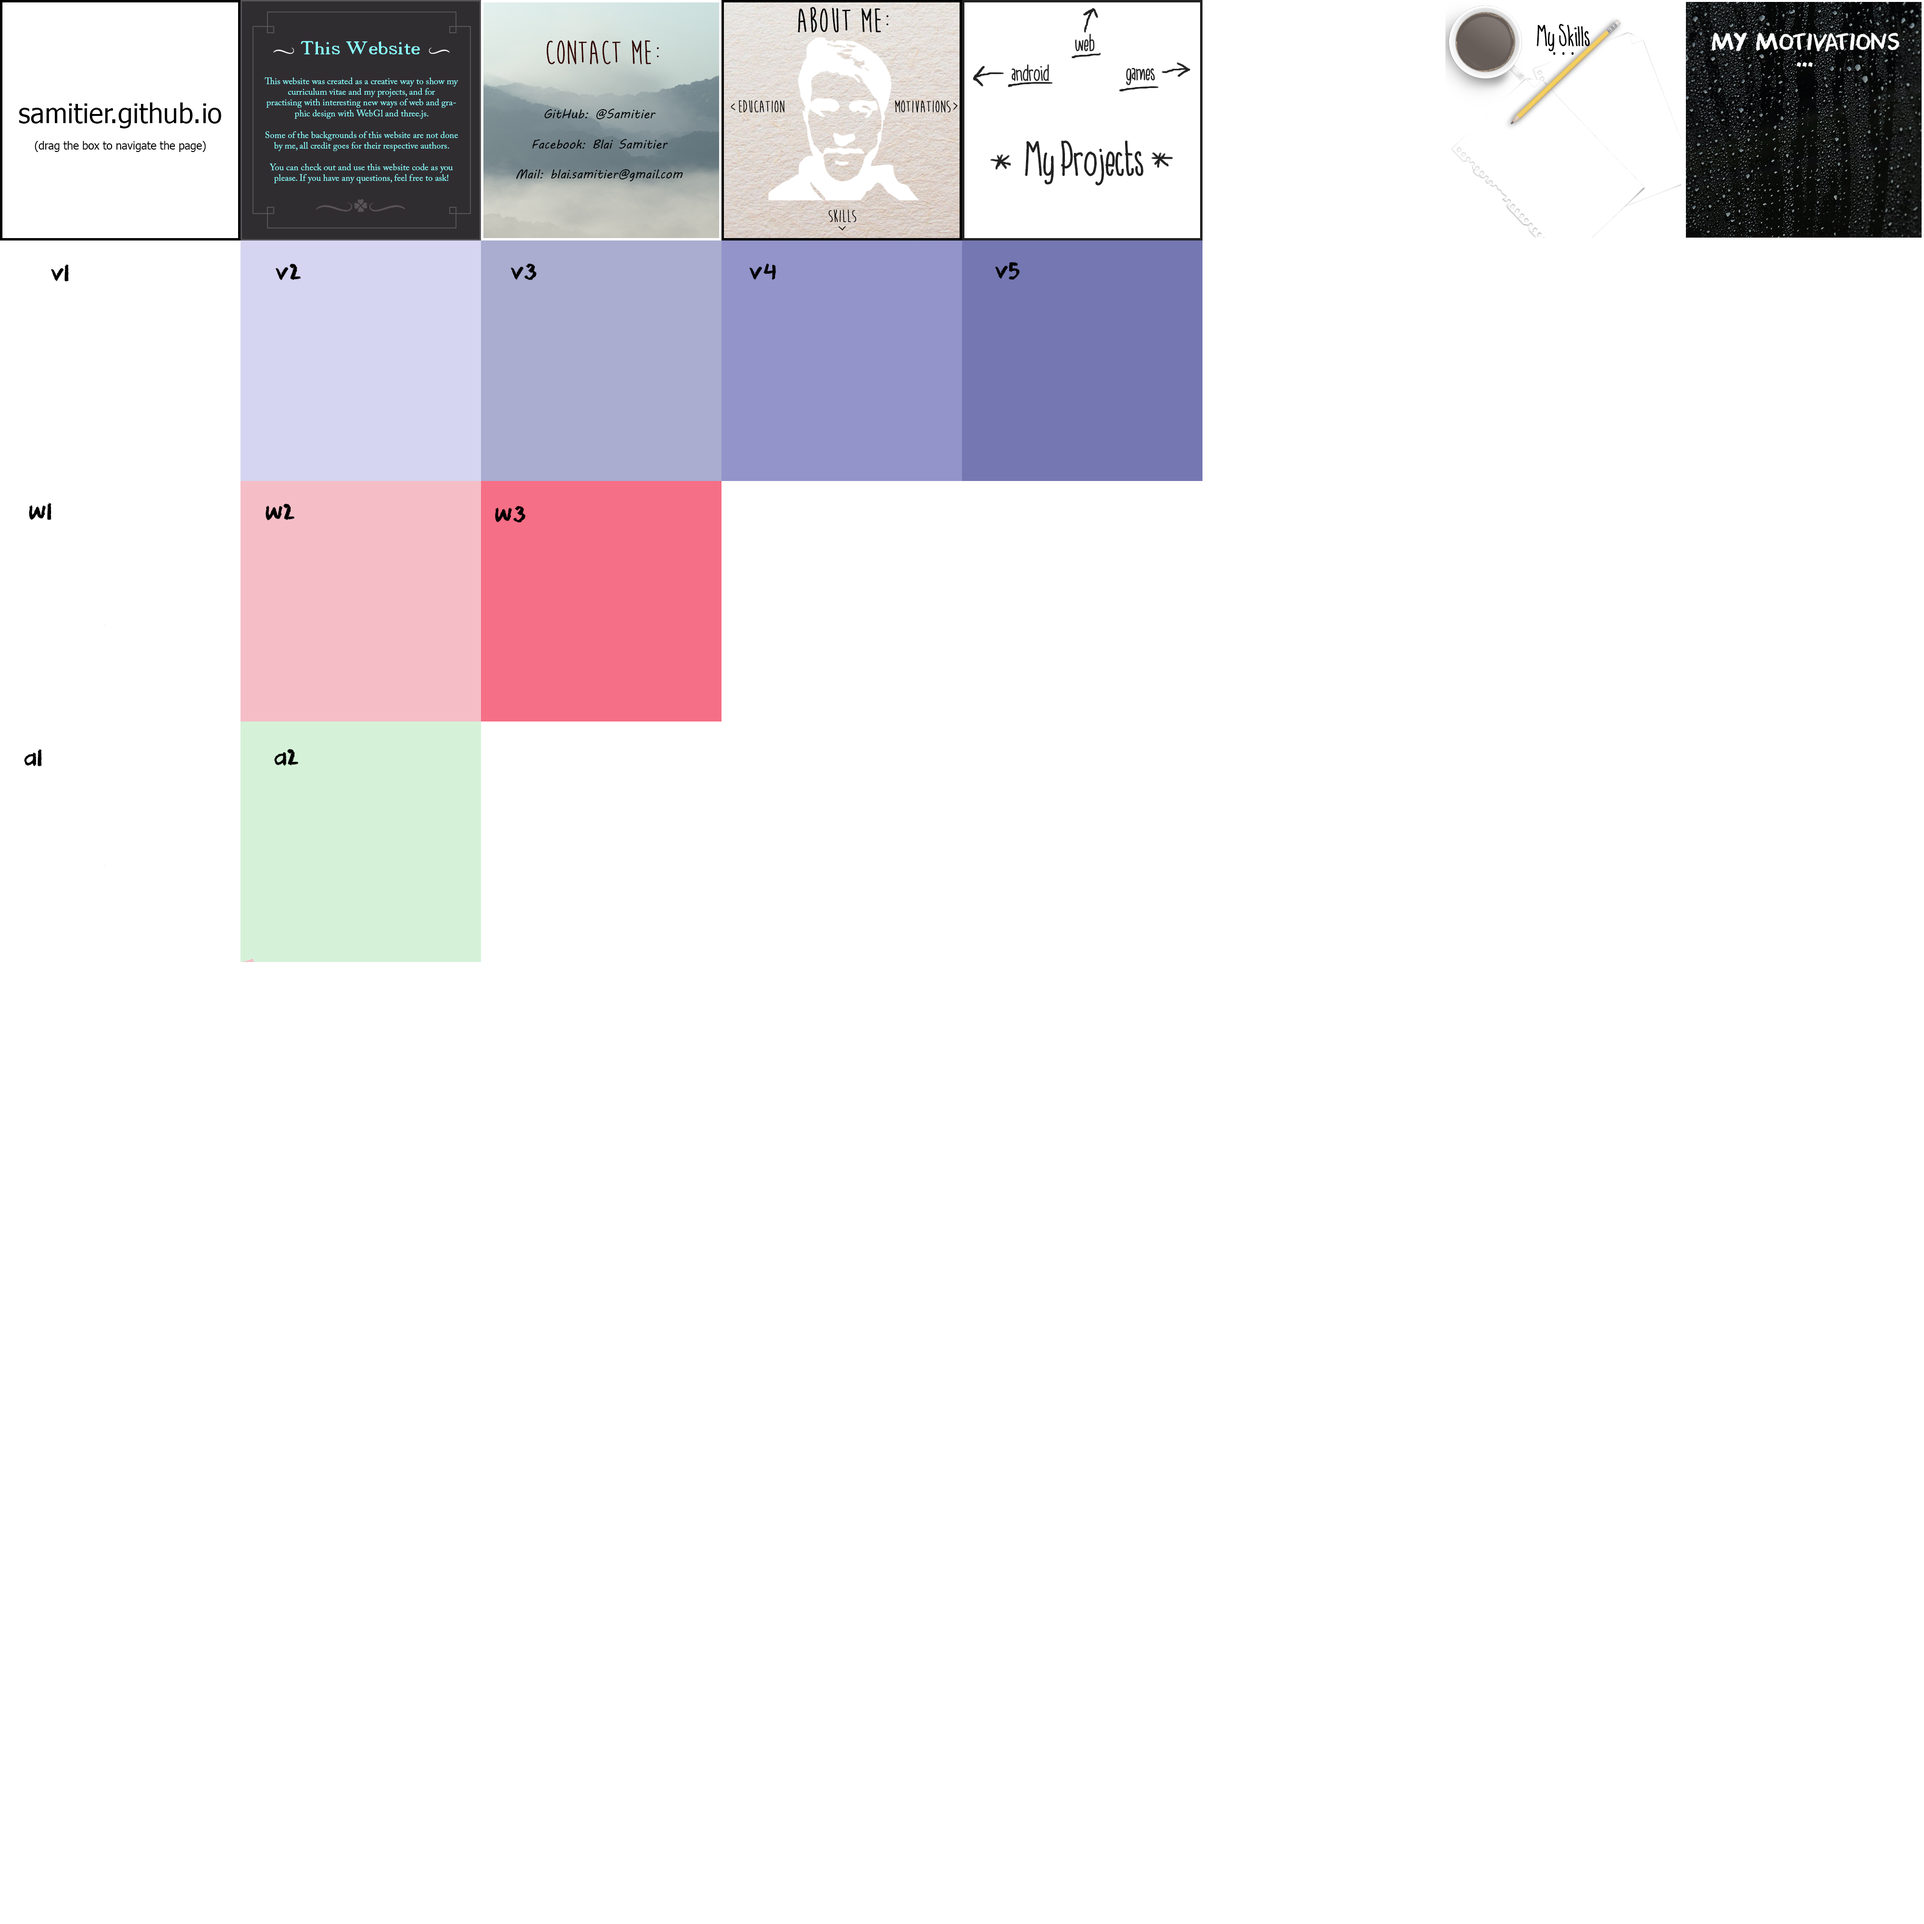
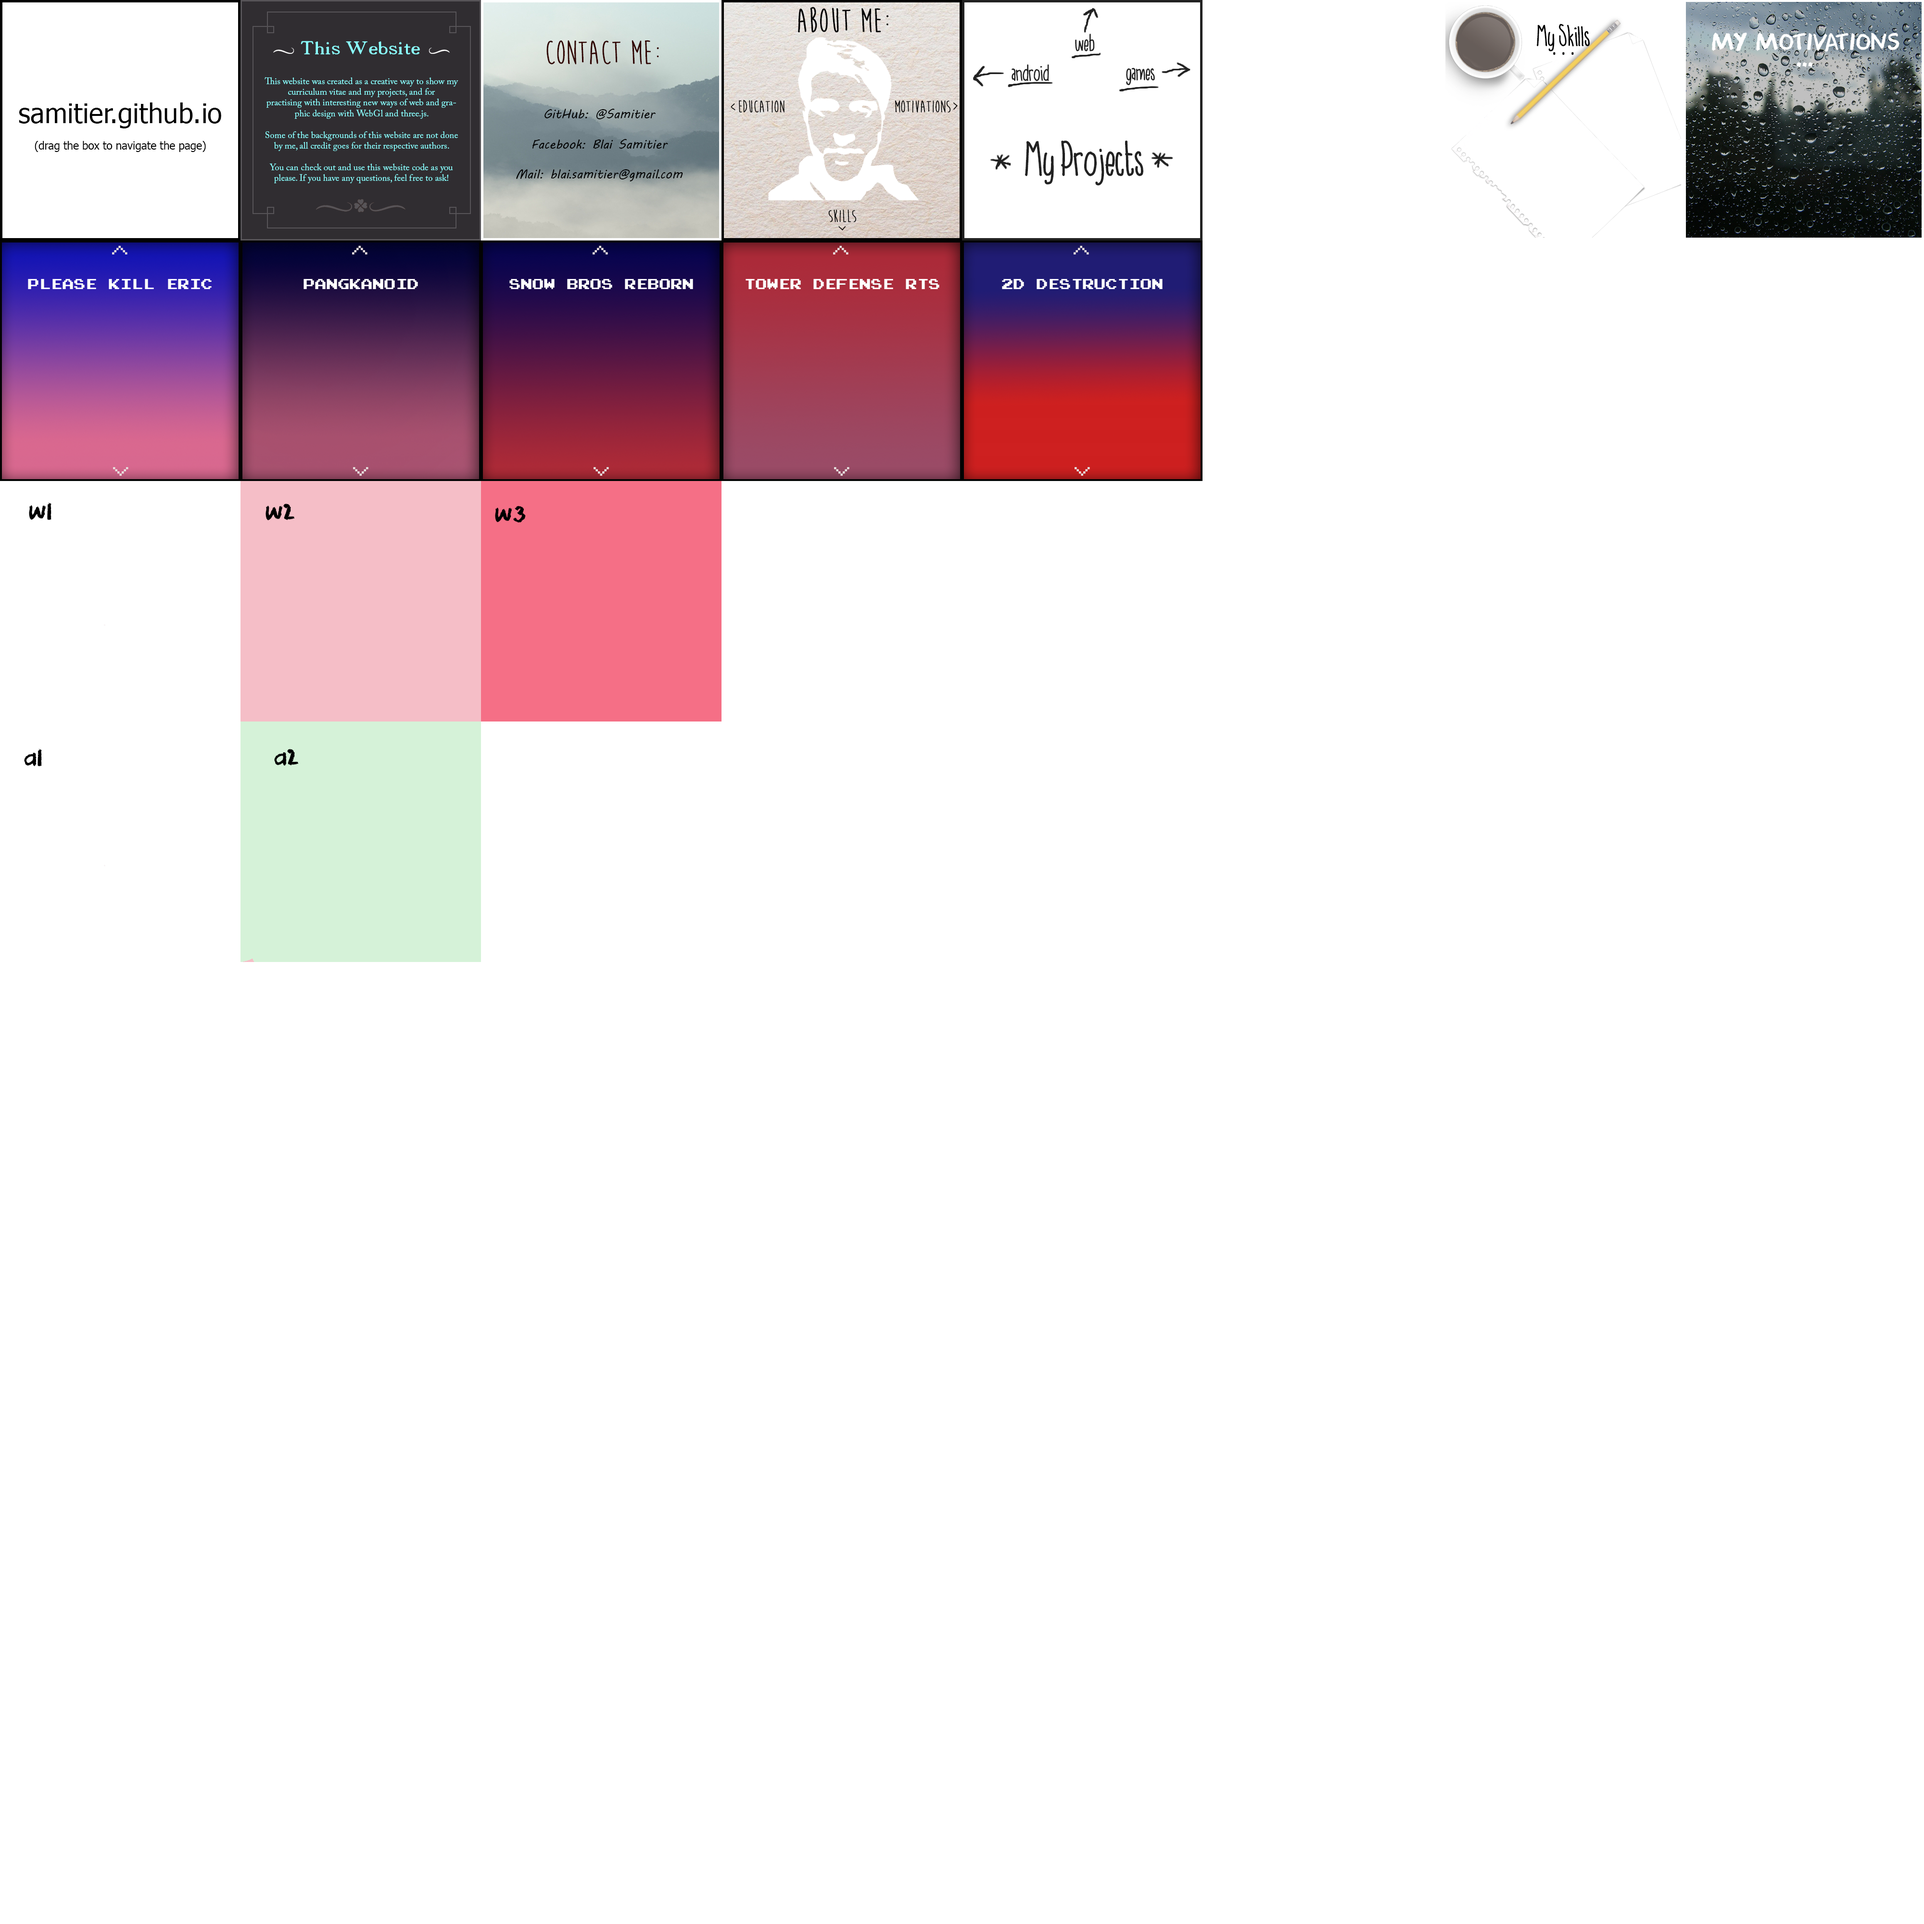
first vj pages

Changed region(s): [[0.0, 0.125, 0.625, 0.25], [0.875, 0.0, 1.0, 0.125]]

diff --git a/js/pages.js b/js/pages.js
@@ -33,6 +33,8 @@ var bkgProjects = THREE.ImageUtils.loadTexture( 'img/bkg/bkgProjects.png');
 var bkgMotivations = THREE.ImageUtils.loadTexture( 'img/bkg/bkgMotivations.png');
 var bkgSkills = THREE.ImageUtils.loadTexture( 'img/bkg/bkgSkills.png');
 var bkgEducation = THREE.ImageUtils.loadTexture( 'img/bkg/bkgEducation.png');
+var bkgVj = THREE.ImageUtils.loadTexture( 'img/bkg/bkgVj.png');
+
 
 var isLoading = true;
 THREE.DefaultLoadingManager.onProgress = function ( item, loaded, total ) {
@@ -49,11 +51,11 @@ var navs = {   main:      {top : "projects",bottom : "me",   left : "website", r
                skills:    {top : "me",    bottom : "main", left : "main",    right:"main",      front: "skills",   background:bkgSkills},
                motivations:{top : "main",   bottom : "main", left : "me",    right:"main",      front: "motivations",  background:bkgMotivations},
 
-               vj1: {top : "vj2",   bottom : "vj5", left : "projects",    right:"main",      front: "vj1",  background:bkgMain},
-               vj2: {top : "vj3",   bottom : "vj1", left : "projects",    right:"main",      front: "vj2",  background:bkgMain},
-               vj3: {top : "vj4",   bottom : "vj2", left : "projects",    right:"main",      front: "vj3",  background:bkgMain},
-               vj4: {top : "vj5",   bottom : "vj3", left : "projects",    right:"main",      front: "vj4",  background:bkgMain},
-               vj5: {top : "vj1",   bottom : "vj4", left : "projects",    right:"main",      front: "vj5",  background:bkgMain},
+               vj1: {top : "vj2",   bottom : "vj5", left : "projects",    right:"main",      front: "vj1",  background:bkgVj},
+               vj2: {top : "vj3",   bottom : "vj1", left : "projects",    right:"main",      front: "vj2",  background:bkgVj},
+               vj3: {top : "vj4",   bottom : "vj2", left : "projects",    right:"main",      front: "vj3",  background:bkgVj},
+               vj4: {top : "vj5",   bottom : "vj3", left : "projects",    right:"main",      front: "vj4",  background:bkgVj},
+               vj5: {top : "vj1",   bottom : "vj4", left : "projects",    right:"main",      front: "vj5",  background:bkgVj},
 
                w1: {top : "main",   bottom : "projects", left : "w3",    right:"w2",      front: "w1",  background:bkgMain},
                w2: {top : "main",   bottom : "projects", left : "w1",    right:"w3",      front: "w2",  background:bkgMain},
